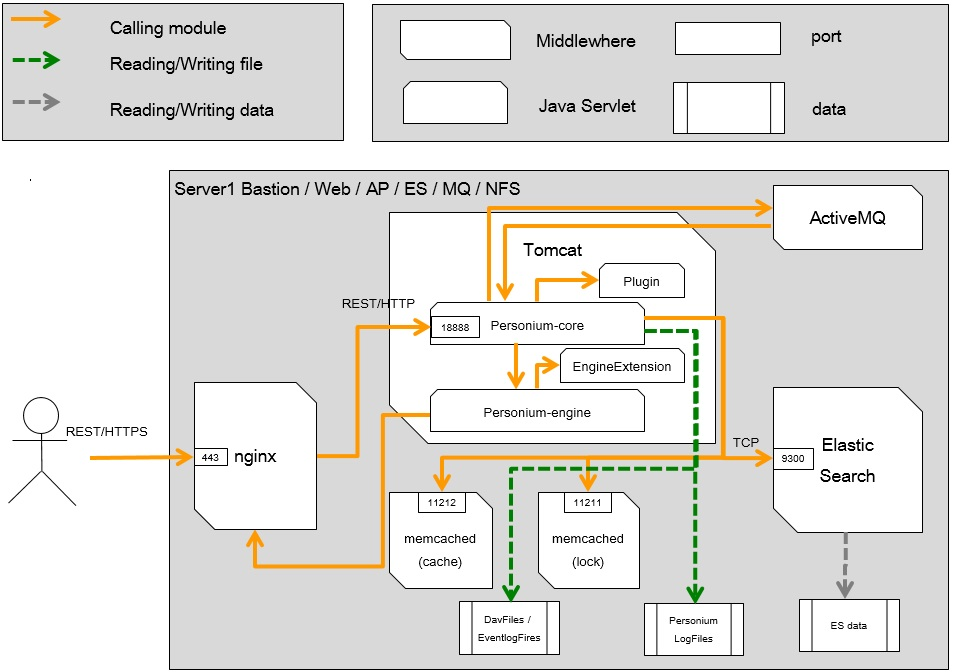
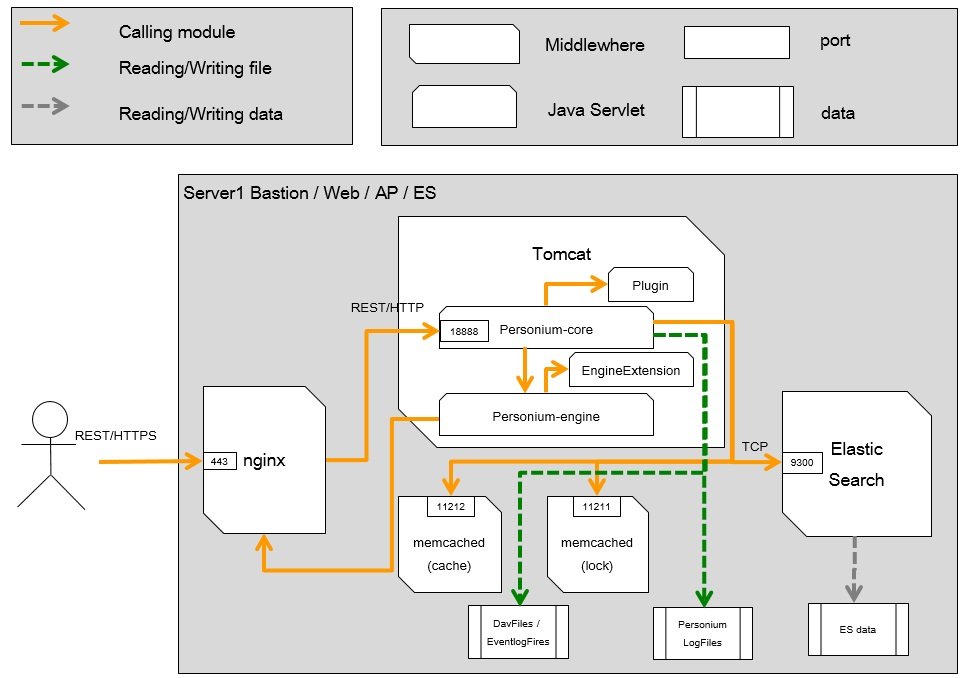
Revert "close #158"
This reverts commit 97838787cc843b75b9e821310e542239db1ed5dc.

diff --git a/3-server_unit/README.md b/3-server_unit/README.md
@@ -13,7 +13,7 @@ This ansible is checking the operation with Personium version 1.5.2 later and Ce
 |**Servers**      |   **Role**      |   **MW**                           |  **default memory size** (*1) |   **AWS EC2 specs** (*2)|  
 |:----------------|:----------------|:-----------------------------------|:------------------------------|:-------------------------|
 | Server 1        |  Bastion,Web    | nginx                              |                               |      t2.micro            |
-| Server 2        |  AP,NFS,MQ         | tomcat(1280MB),memcached(1024MB*2),ActiveMQ |  3328MB                       |      m3.medium           |
+| Server 2        |  AP,NFS         | tomcat(1280MB),memcached(1024MB*2) |  3328MB                       |      m3.medium           |
 | Server 3        |  ES             | Elasticsearch(3328MB)              |  3328MB                       |     m3.medium            |
 
 (*1) : Required default memory size. Memory size of each MW configuration file could be modified

diff --git a/1-server_unit/README.md b/1-server_unit/README.md
@@ -12,7 +12,7 @@ This ansible is checking the operation with Personium version 1.5.2 later and Ce
 
 |**Servers**      |   **Role**      |   **MW**                           |  **default memory size** (*1) |   **AWS EC2 specs** (*2)|  
 |:----------------|:----------------|:-----------------------------------|:------------------------------|:-------------------------|
-| Server 1        |  Bastion,Web,AP,ES,MQ,NFS    | nginx,tomcat(768MB),memcached(256MB*2),Elasticsearch(1875MB),ActiveMQ                     |3155MB                         |      m3.medium            |
+| Server 1        |  Bastion,Web,AP,ES    | nginx,tomcat(768MB),memcached(256MB*2),Elasticsearch(1875MB)                     |3155MB                         |      m3.medium            |
 
 (*1) : Required default memory size. Memory size of each MW configuration file could be modified
 

diff --git a/README.md b/README.md
@@ -19,7 +19,6 @@ Although you may construct the Personium unit without using the setup tool, but 
 | `Web`        |  Required        | Reverse proxy server, contains Global IP and also should be accessible to the internet |
 | `AP`         |  Required        | Application server, where Personium will be executed                                |
 | `ES`         |  Required        | server to operate `ElasticSearch`                                                      |
-| `MQ`         |  Required        | server to operate `Message Queue`.|
 | `NFS`        |  Required        | server to operate `Network File System (NFS)`.                                         |
 | `Bastion`    |  Optional        | Bastion server. Used to execute ansible and to connect other servers by ssh.           |
 
